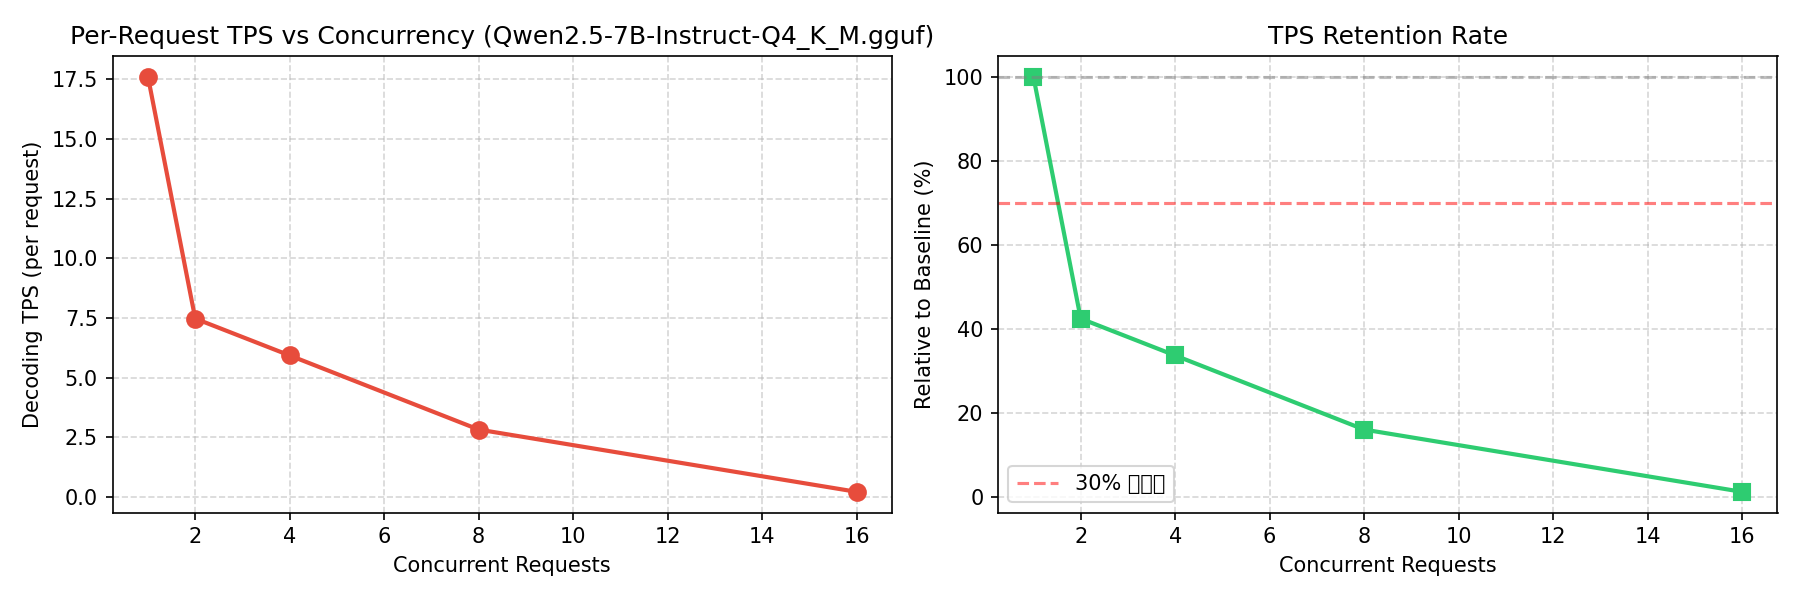
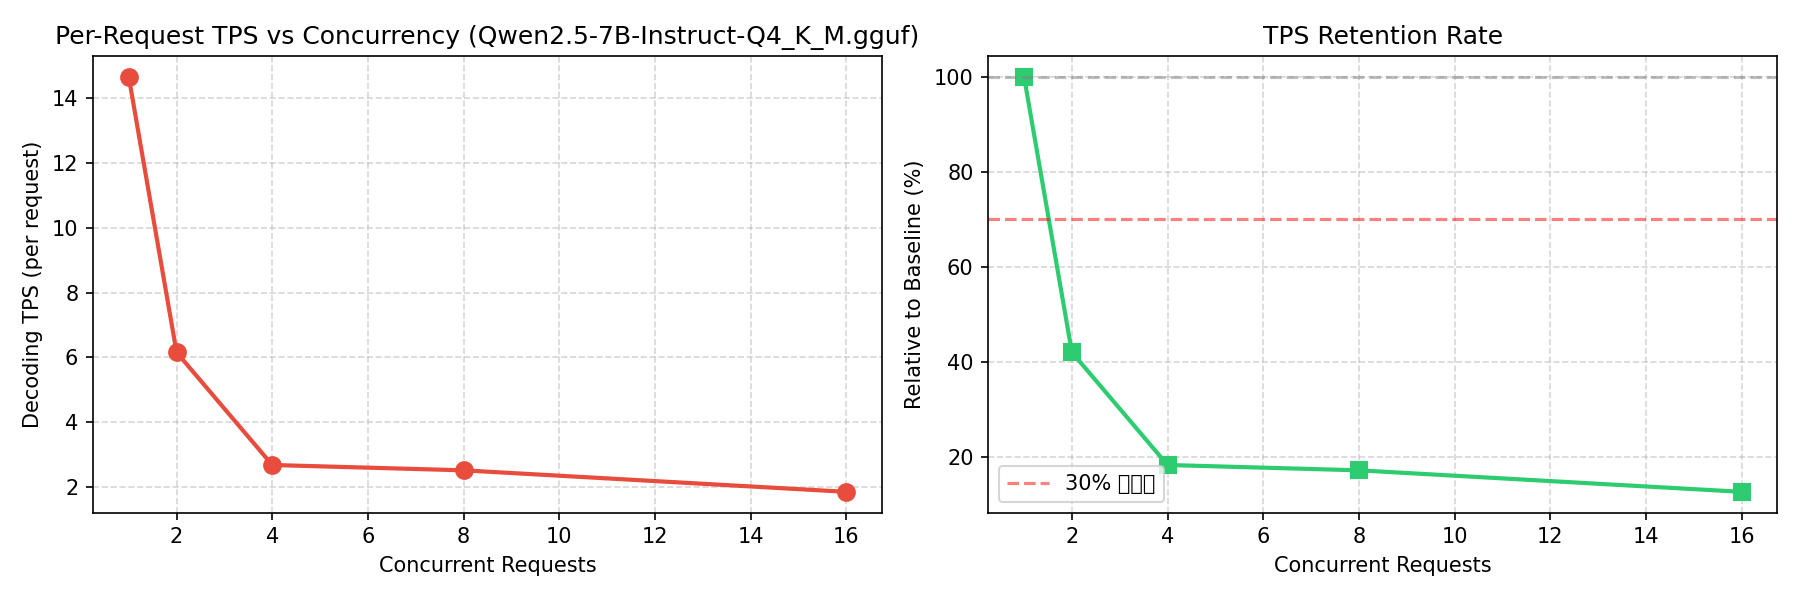
fix: update concurrency levels and improve label for degradation threshold in experiments

diff --git a/experiment_D_paged_attention.py b/experiment_D_paged_attention.py
@@ -5,7 +5,7 @@ import statistics
 
 # 实验配置
 API_URL = "http://localhost:8080/completion"
-CONCURRENCY_LEVELS = [1, 4, 8, 16, 32] # 模拟不同数量的并发用户
+CONCURRENCY_LEVELS = [1, 4, 8, 16] # 模拟不同数量的并发用户
 REQUESTS_PER_USER = 1
 GEN_LEN = 1024
 

diff --git a/experiment_E_mla_theory.py b/experiment_E_mla_theory.py
@@ -355,7 +355,7 @@ def run_part_c():
 
     ax2.plot(results_conc, results_ratio, marker='s', color='#2ecc71', linewidth=2, markersize=8)
     ax2.axhline(y=100, color='gray', ls='--', alpha=0.5)
-    ax2.axhline(y=70, color='red', ls='--', alpha=0.5, label='30% 衰减线')
+    ax2.axhline(y=70, color='red', ls='--', alpha=0.5, label='30% degradation threshold')
     ax2.set_xlabel('Concurrent Requests')
     ax2.set_ylabel('Relative to Baseline (%)')
     ax2.set_title('TPS Retention Rate')